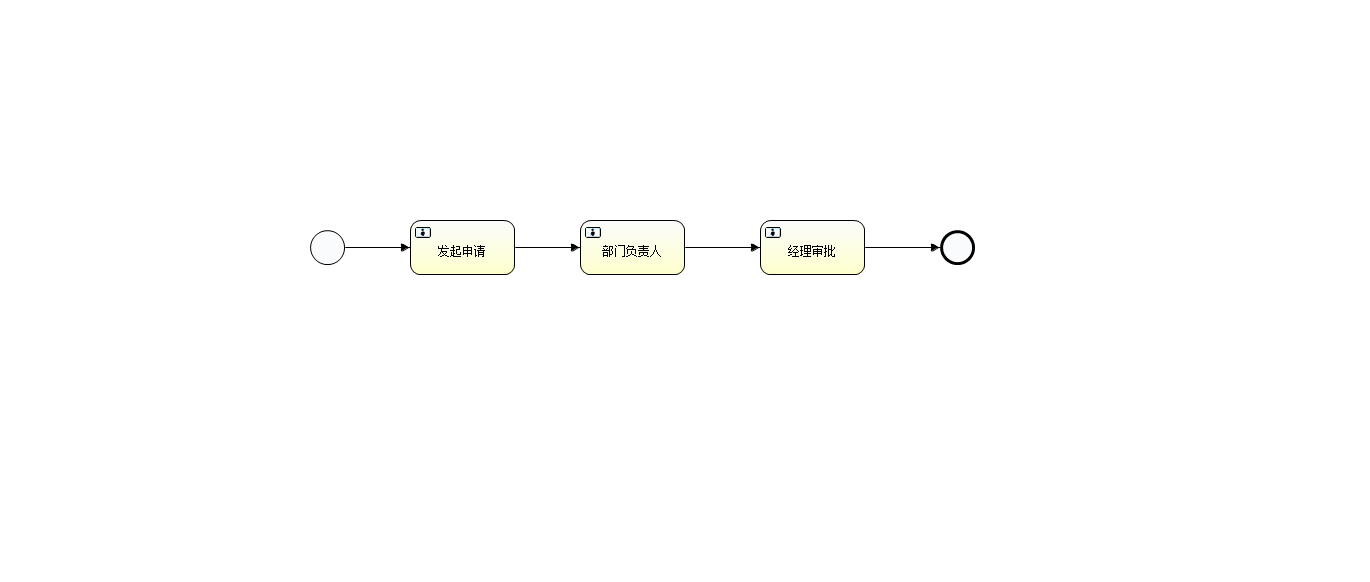
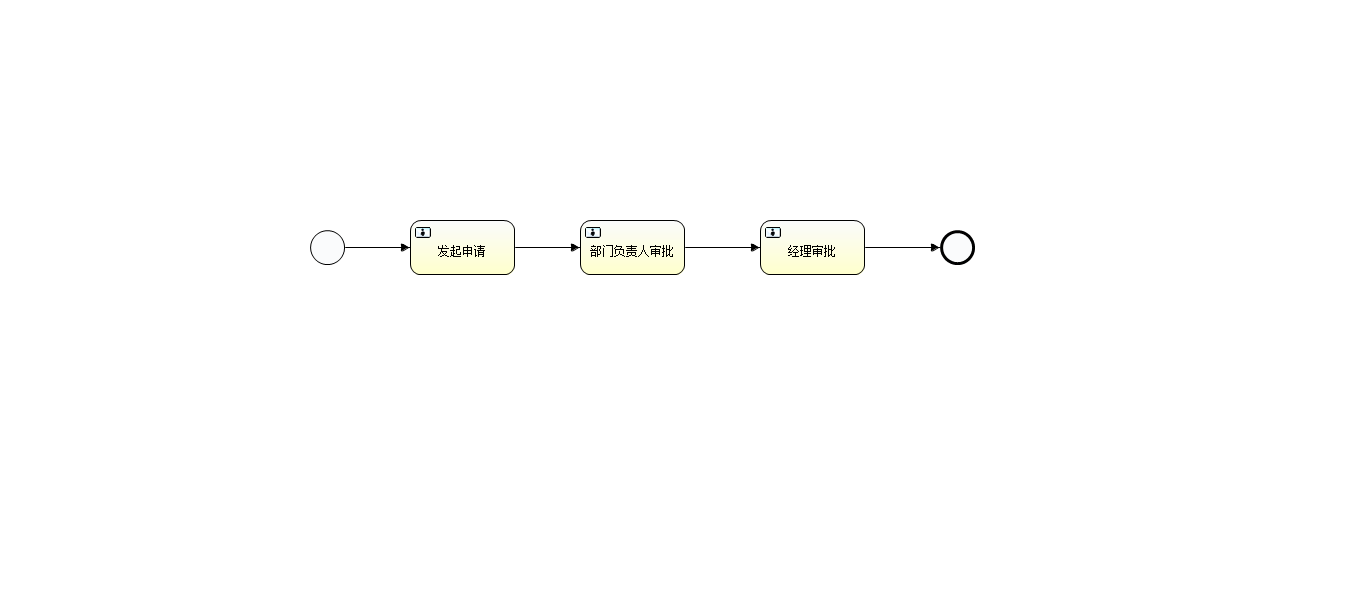
1111

Changed region(s): [[0.2146, 0.3402, 0.6438, 0.4948], [0.6438, 0.3711, 0.7358, 0.4639]]

diff --git a/src/main/java/com/item/service/VacationServiceImpl.java b/src/main/java/com/item/service/VacationServiceImpl.java
@@ -50,6 +50,7 @@ public class VacationServiceImpl implements VacationService {
 		// 将得到的实例流程id值赋给之前设置的变量
 		processInstanceId = processInstance.getId();
 		System.out.println("流程开启成功.......实例流程id:" + processInstanceId);
+		getTaskAndComplete(processInstanceId);
 		return true;
 	}
 
@@ -76,7 +77,7 @@ public class VacationServiceImpl implements VacationService {
 
 			if (taskName.equals("发起申请")) {// 职员节点
 				completeEmployeeTask(task);
-			} else if (taskName.equals("领导审批")) {// 领导节点
+			} else if (taskName.equals("部门负责人审批")) {// 领导节点
 				completeLeaderTask(task);
 			} else {// 经理节点
 				completeJingliTask(task);
@@ -105,6 +106,21 @@ public class VacationServiceImpl implements VacationService {
 		System.out.println("审核结束..........");
 	}
 
+	@Override
+	public Object getVac(String loginname) {
+		// 3.根据流程定义的key,负责人assignee来实现当前用户的任务列表查询
+		List<Task> taskList = taskService.createTaskQuery().processDefinitionKey(PROCESS_DEFINE_KEY)
+				.taskAssignee(loginname).list();
+		// 4.任务列表的展示
+		for (Task task : taskList) {
+			System.out.println("流程实例ID:" + task.getProcessInstanceId());
+			System.out.println("任务ID:" + task.getId());
+			System.out.println("任务负责人:" + task.getAssignee());
+			System.out.println("任务名称:" + task.getName());
+		}
+		return taskList;
+	}
+
 	/** 查询历史流程变量实例 */
 
 	public void findHistoryProcessVariables(String processInstanceId) {
@@ -126,7 +142,8 @@ public class VacationServiceImpl implements VacationService {
 		// 获取任务id
 		String taskId = task.getId();
 		Map<String, Object> variables = new HashMap<String, Object>();
-		variables.put("leaveStatus", 1);
+		variables.put("applyStatus", 1);
+		variables.put("applyTime", "12312");
 		// 完成任务
 		taskService.complete(taskId);
 		System.out.println("职员已经提交申请.......");

diff --git a/src/main/java/com/item/entity/Vacation.java b/src/main/java/com/item/entity/Vacation.java
@@ -13,7 +13,7 @@ public class Vacation {
 	private String applyUser;// 申请人
 	private String reason;// 申请的原因
 	private Date applyTime;// 申请的时间
-	private String applyStatus;// 申请状态 正在申请或者申请结束
+	private String applyStatus;// 申请状态 正在申请或者申请结束 1、正在审批中 2. 审批成功 3.审批失败
 
 	/**
 	 * 审核人

diff --git a/src/main/java/com/item/controller/VacationController.java b/src/main/java/com/item/controller/VacationController.java
@@ -22,8 +22,8 @@ public class VacationController {
 	}
 
 	@RequestMapping(value = "/getVac")
-	public Result<?> getVac(Vacation vac) {
-		vacationService.startVac(vac);
+	public Result<?> getVac(String loginname) {
+		vacationService.getVac(loginname);
 		return null;
 	}
 

diff --git a/src/main/java/com/item/service/VacationService.java b/src/main/java/com/item/service/VacationService.java
@@ -4,5 +4,9 @@ import com.item.entity.Vacation;
 
 public interface VacationService {
 
+	// 发起申请
 	public Object startVac(Vacation vac);
+
+	// 获取任务
+	public Object getVac(String loginname);
 }
